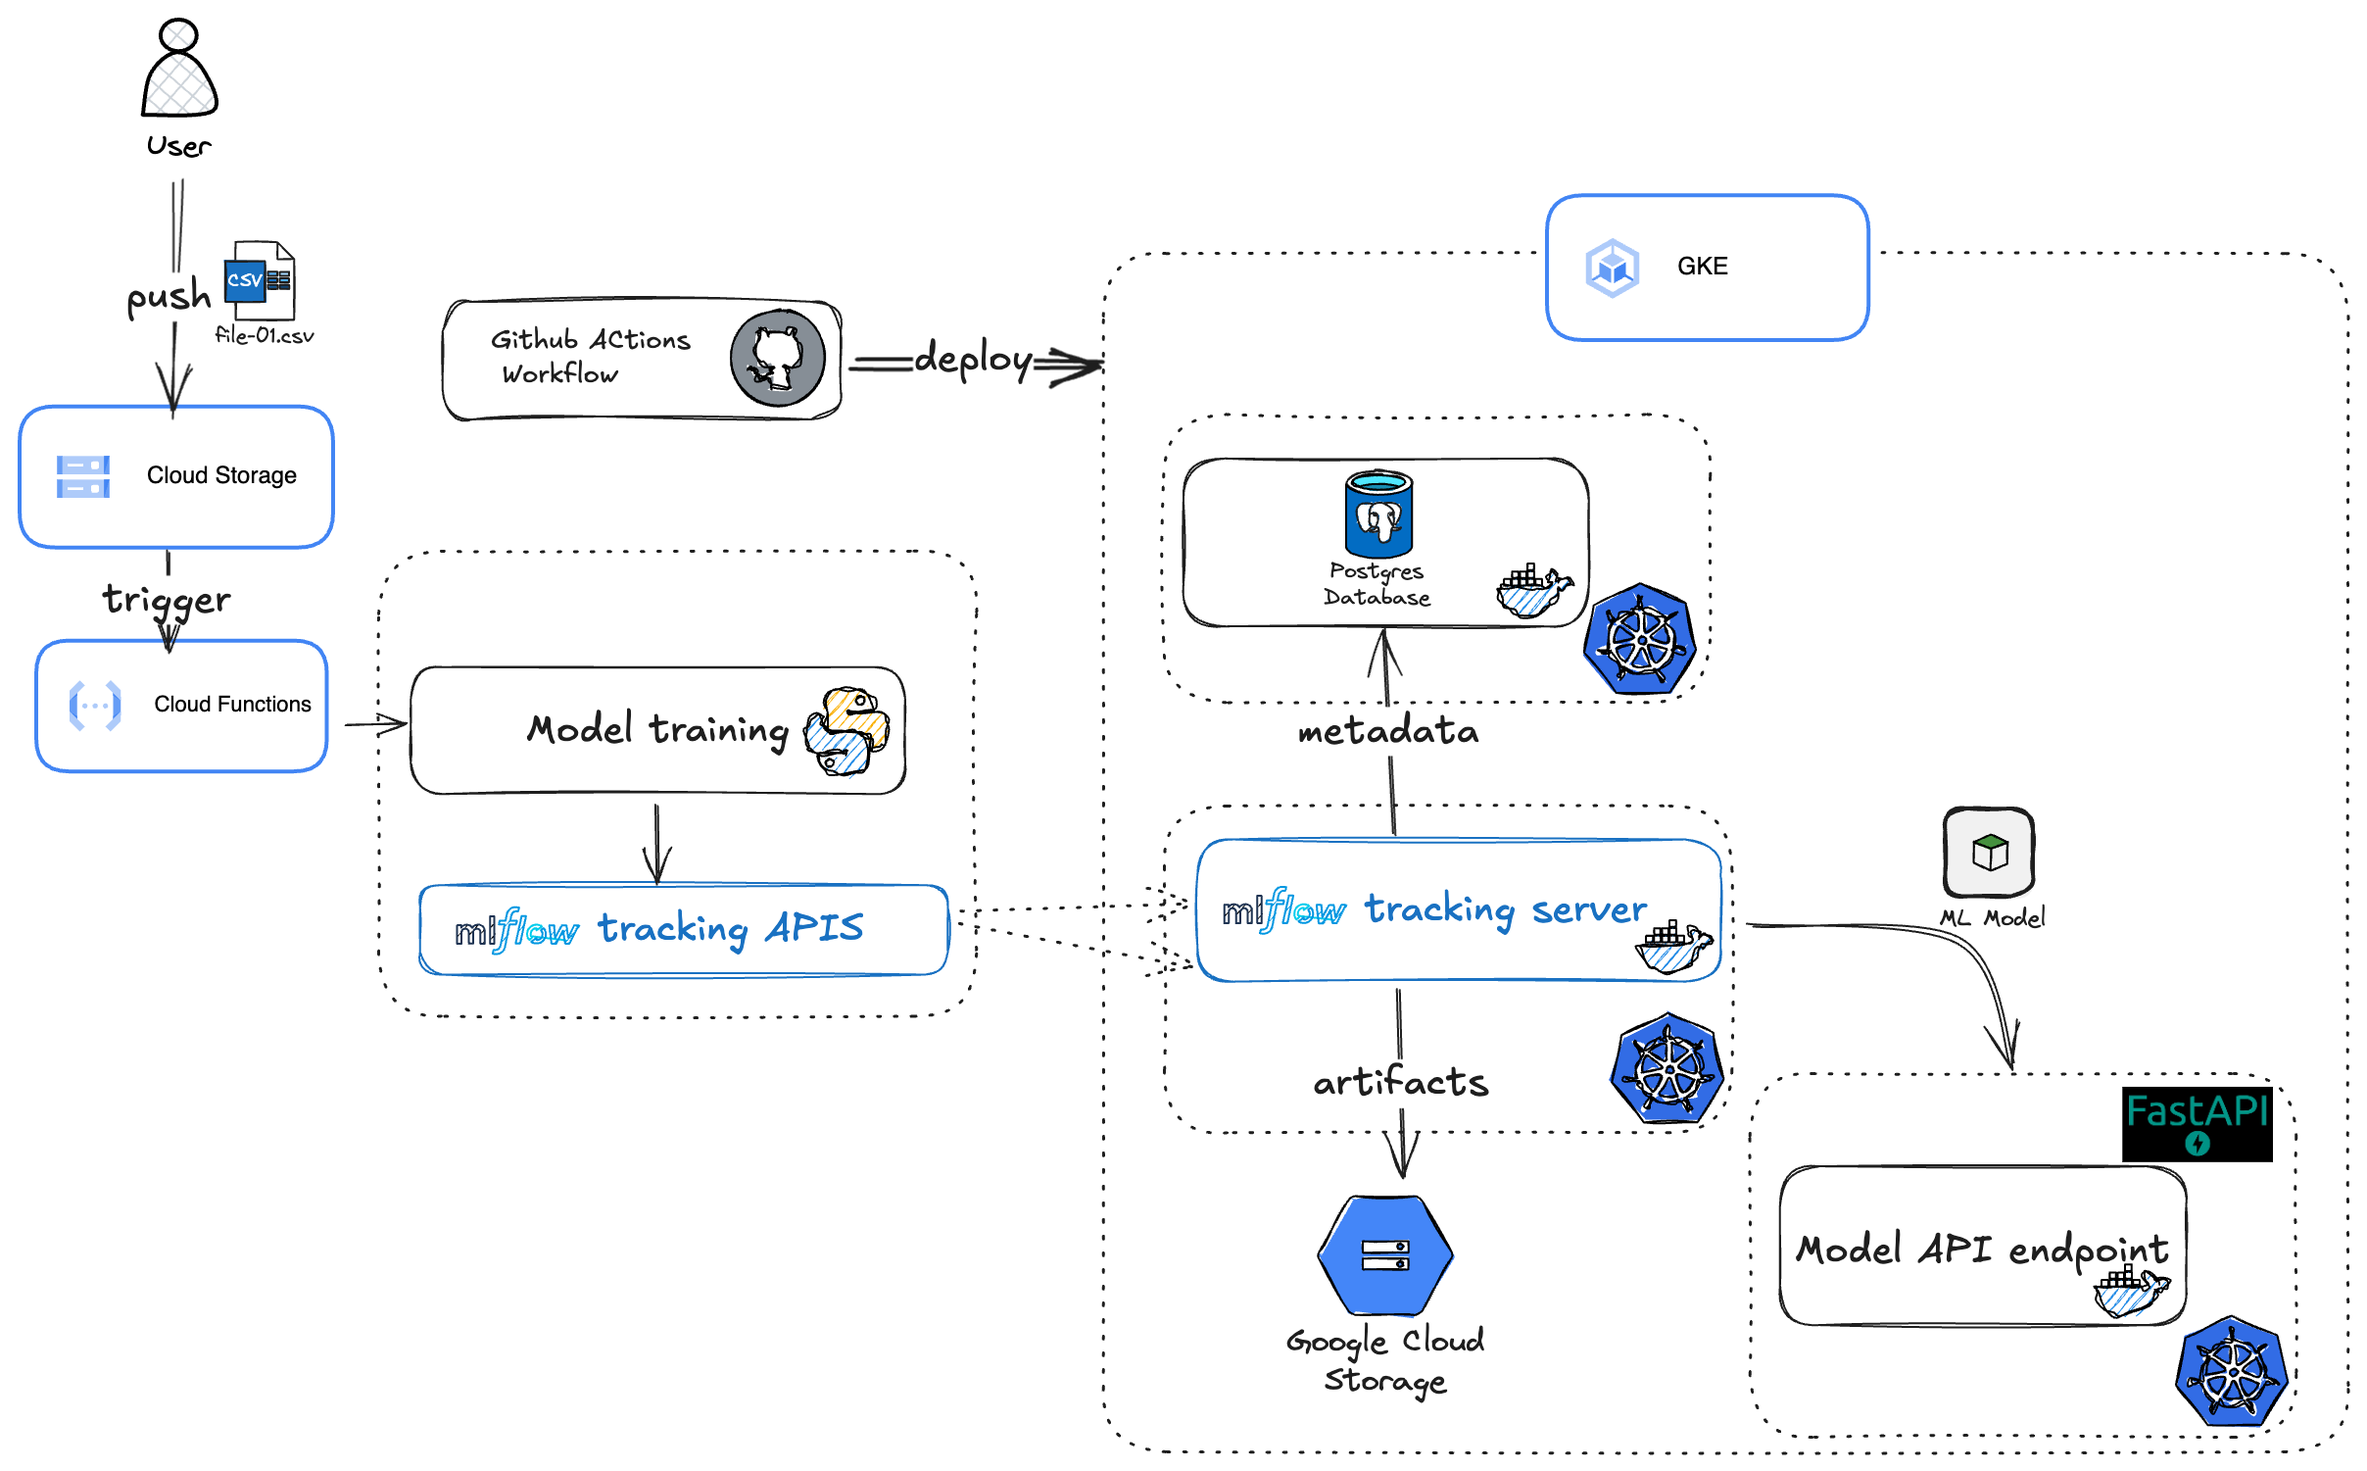
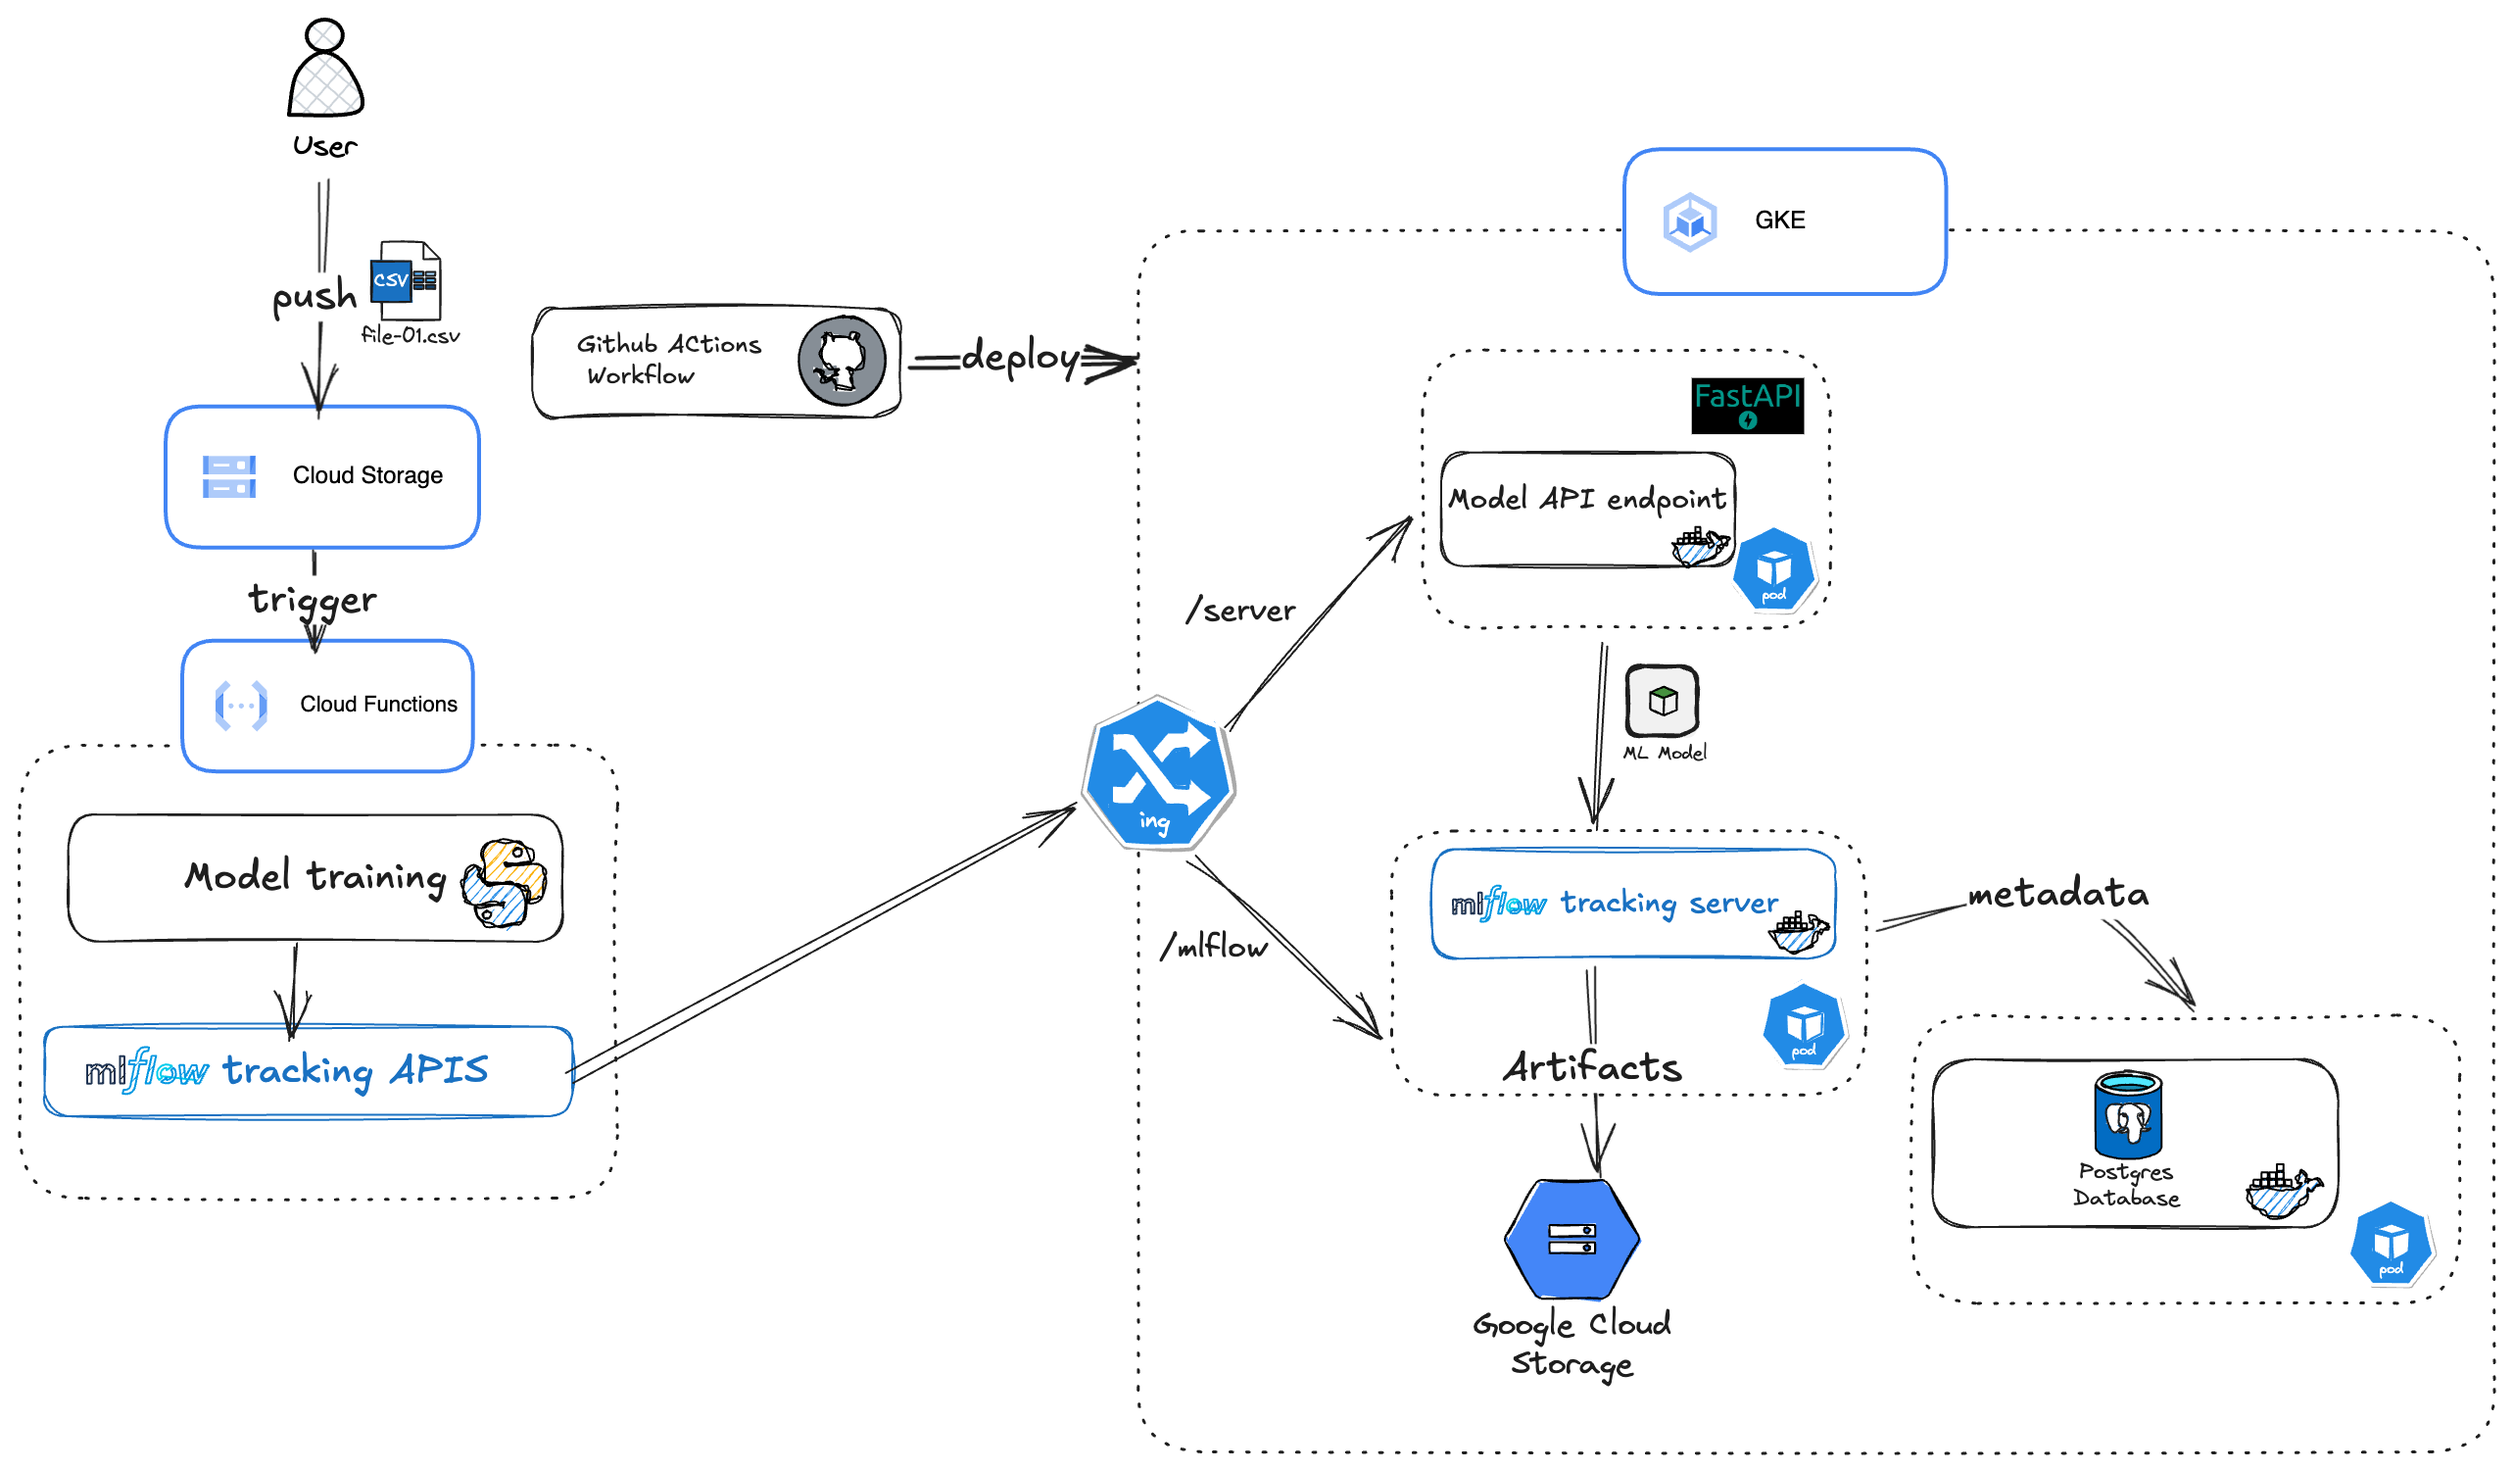
docs: update the project architecture and the prerequisites in readme file skip ci

diff --git a/README.md b/README.md
@@ -48,6 +48,7 @@ Additionally, make sure you have the following accounts and services:
 - GCP account
 - GitHub account
 - GKE cluster set up in GCP
+- Ingress controller (e.g., Nginx Ingress Controller)
 
 
 ### Setup Instructions
@@ -144,5 +145,4 @@ make gcp-cloud-functions
 
 ## Future Enhancements
 - Configure a reverse proxy with SSL certificates to enable HTTPS for the FAST API endpoint and the MLflow.
-- Implement a Kubernetes Ingress for externl Access instead of the service.
 - Use Helm to simplify the Kubernetes deployment
